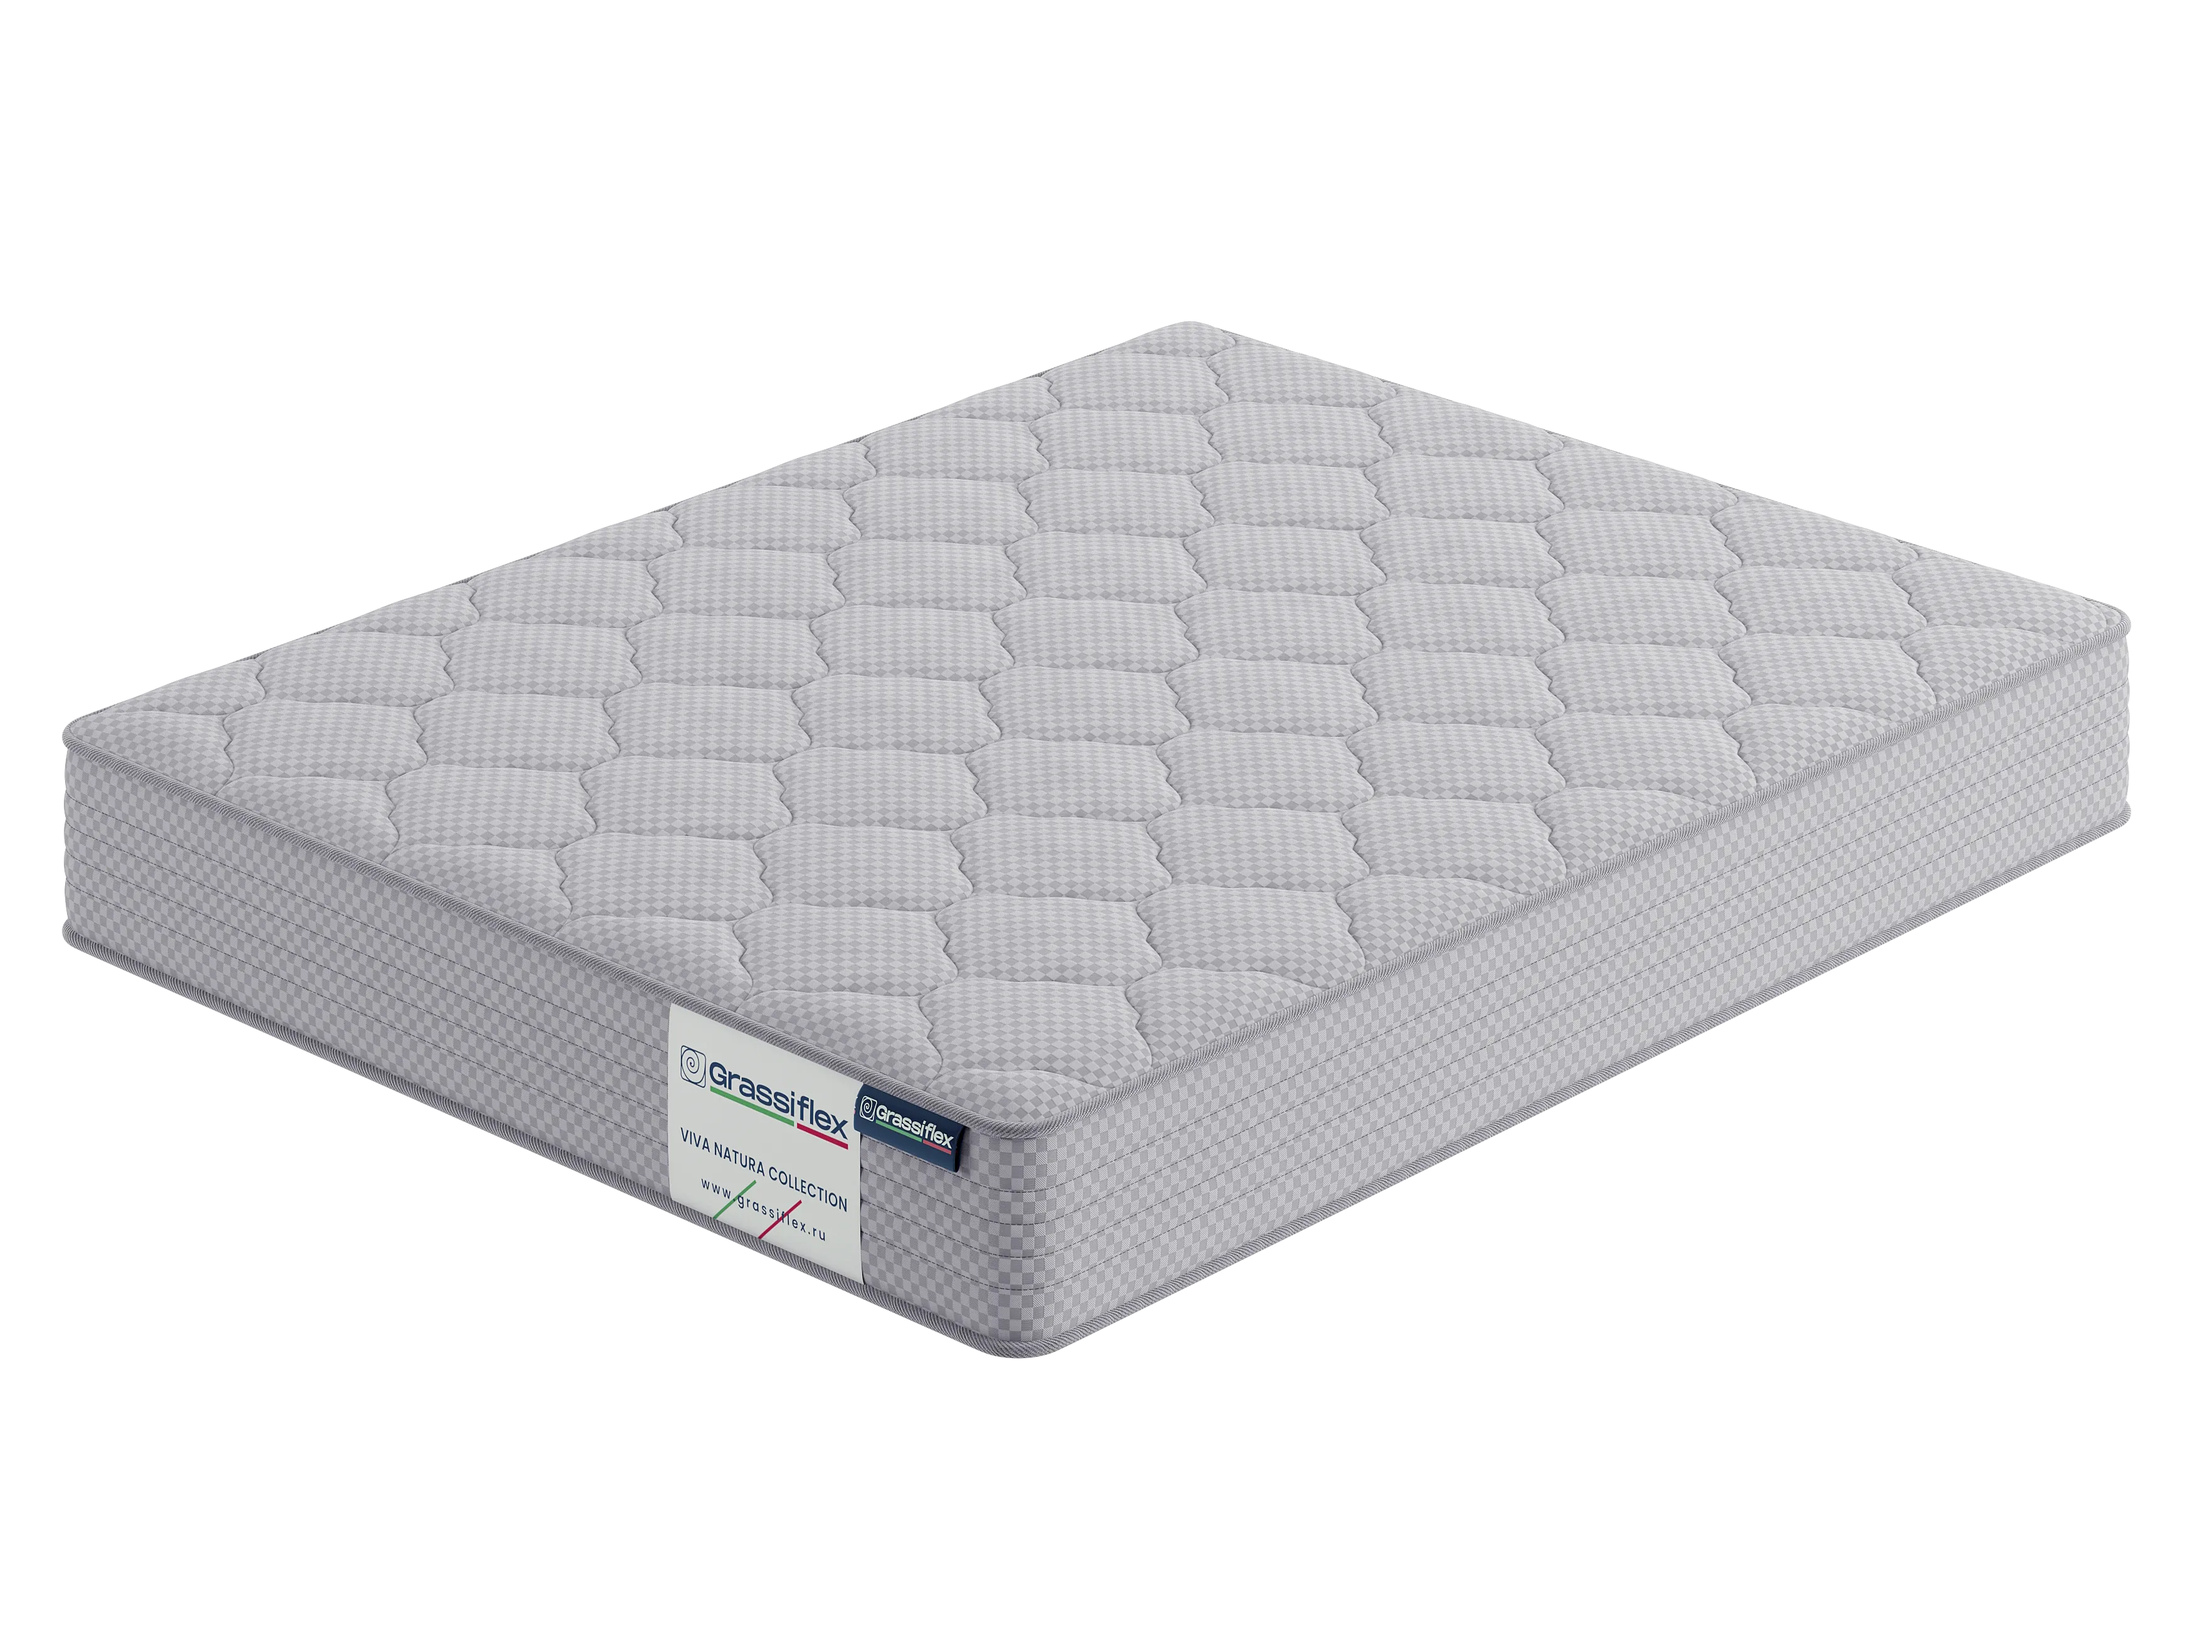
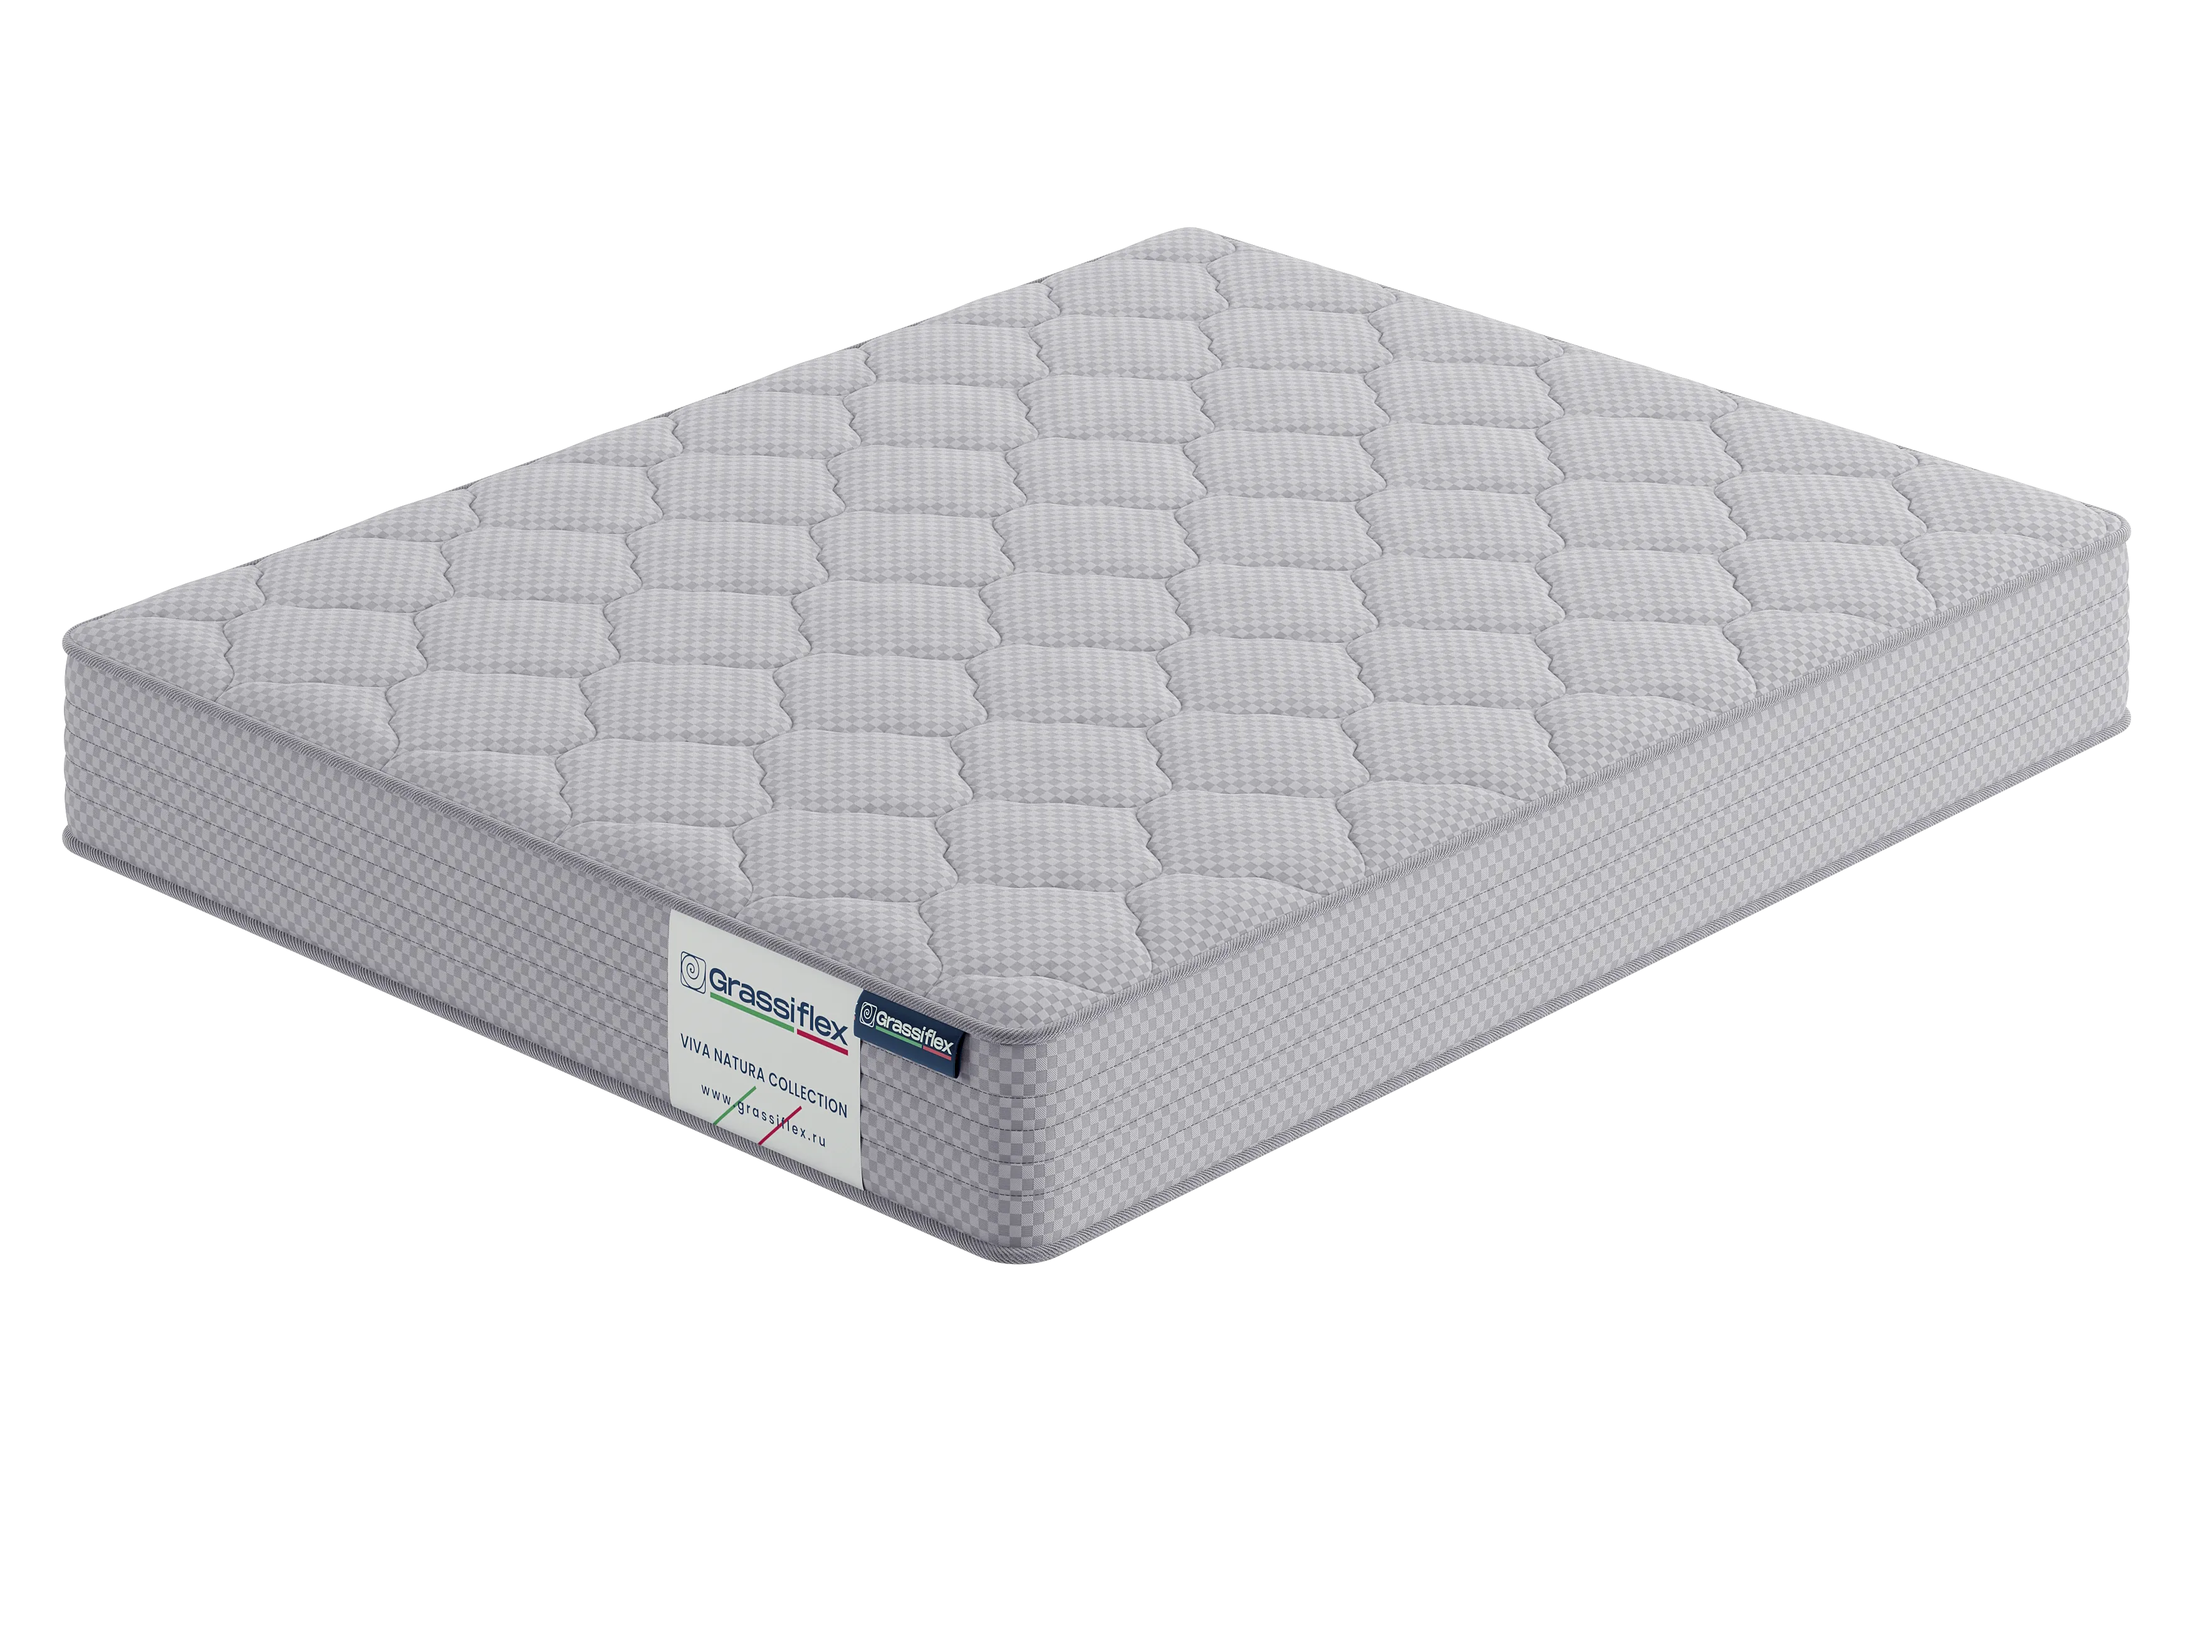
fix: remove transform rotate and update colors WebP versions
- Remove transform:rotate(-5deg) from .product-colors .mattress-top
- Update colors-top.png and colors-bottom.png images
- Regenerate corresponding WebP versions with 80% quality
- Improve visual alignment without rotation
- Maintain WebP/PNG fallback structure

Changed region(s): [[0.0311, 0.125, 0.9966, 0.8434]]

diff --git a/styles.css b/styles.css
@@ -143,7 +143,7 @@ img{ display:block; max-width:100%; height:auto; }
 	line-height:1.2;
 }
 .hero-title{
-	margin-top:186px;
+	margin-top:64px;
 	font-size:64px;
 	letter-spacing:10.24px;
 	text-transform:uppercase;
@@ -309,7 +309,6 @@ img{ display:block; max-width:100%; height:auto; }
 	height:75%;
 	object-fit:contain;
 	object-position:center center;
-	transform:rotate(-5deg);
 	z-index:3;
 	transition:top 0.6s ease;
 }
